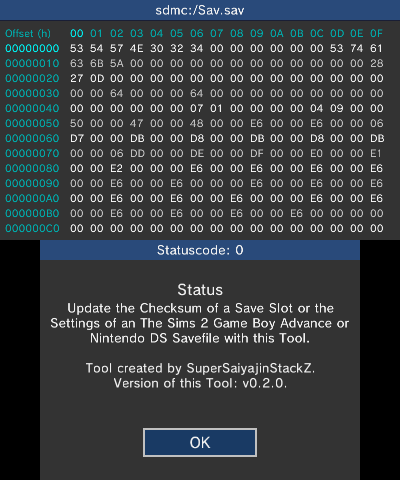
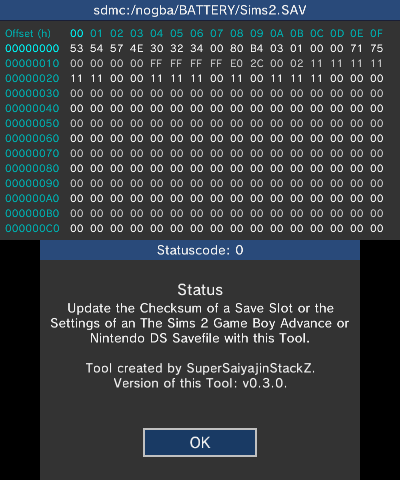
Sims 2 Checksum-Updater: `Detect if a The Sims 2 Game Boy Advance Slot exist at all.`

diff --git a/Sims2/Common/README.md b/Sims2/Common/README.md
@@ -4,3 +4,11 @@
 Update Checksums of your The Sims 2 GBA and NDS Savefile, in case they got corrupted for some reason or you are doing save edits.
 
 ![](https://github.com/SuperSaiyajinStackZ/Univ-Edit-Stuff/blob/main/Screenshots/Sims2-Checksum-Updater.png)
+
+### History
+
+**v0.1.0**: Added initial implementation of the Checksum-Updater.
+
+**v0.2.0**: Added Header with informations to the Script.
+
+**v0.3.0**: Added History to the Header and also detect if a The Sims 2 Game Boy Advance Slot exist at all.
